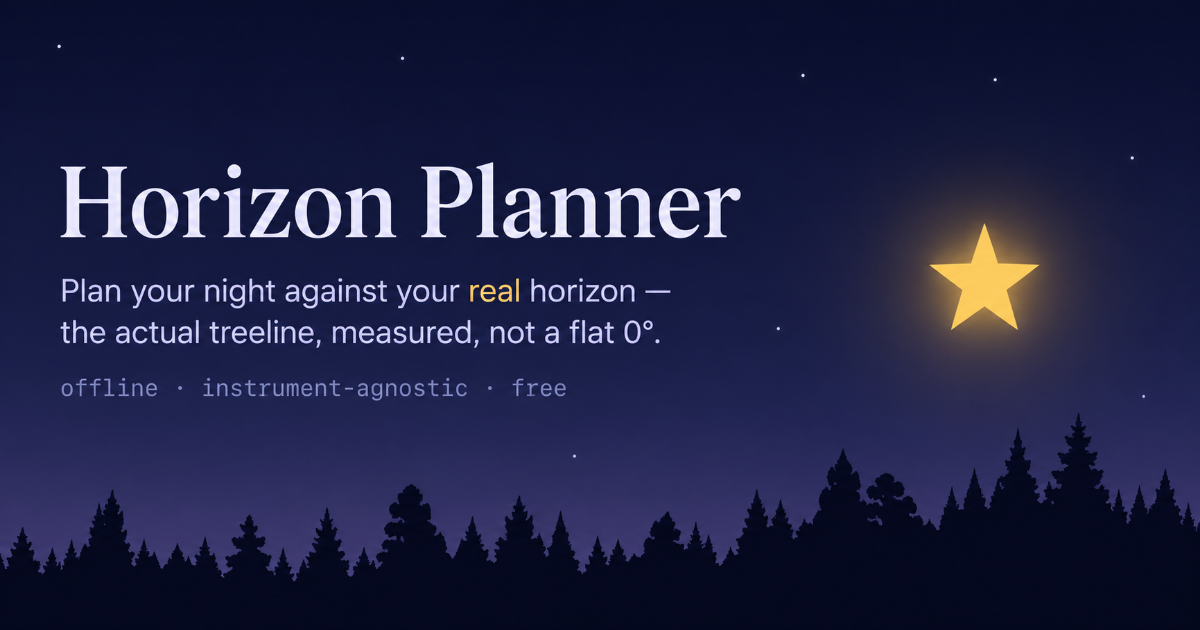
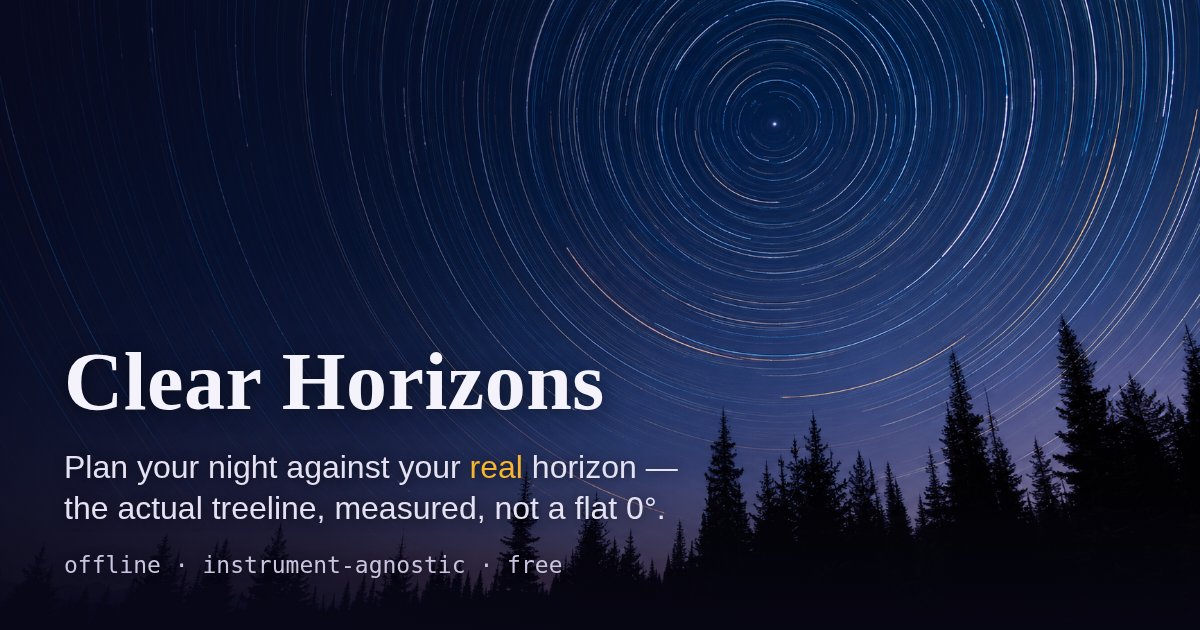
New branded og-image from a real star-trail photo (v2.16.2)
art/og-master.png is now a text-free long-exposure star-trail photograph
(concentric trails around Polaris, a conifer treeline cutting them); the
wordmark + tagline are composited over the clean lower-left in code by
gen-assets.mjs (IBM Plex, soft scrim) so future copy/photo swaps are a
one-file edit. Replaces the old wrong-wordmark card. og-image.png
regenerated. Manual Settings -> Social preview upload still pending.

Claude-Session: https://claude.ai/code/session_01Ck69LdRciR3T3mWcm44WVu

diff --git a/sw.js b/sw.js
@@ -1,7 +1,7 @@
 // Clear Horizons service worker — offline-first for the whole static app.
 // No network APIs are contacted in v1 (astronomy-engine is vendored and runs
 // on-device; Open-Meteo / hips2fits land on the roadmap). Bump CACHE on release.
-const CACHE = 'horizon-v49'; // app v2.16.1 — Tier 2 confirmed done; old origin frozen on the banner build (og-image wordmark still pending new art)
+const CACHE = 'horizon-v50'; // app v2.16.2 — new branded og-image from Noah's star-trail photo (wordmark overlaid in code via gen-assets)
 const ASSETS = [
   './', './index.html', './manifest.webmanifest', './icon.svg', './apple-touch-icon.png',
   './src/styles.css', './src/main.js',

diff --git a/NOTES.md b/NOTES.md
@@ -23,11 +23,14 @@ install promotion (v2.14), and the **Clear Horizons Tier 1 rename**
   instructions render + the nudge disappears standalone; editor drag feel
   after the touch hardening; real outdoor trace/sweep/seam quality; the iOS
   `webkitCompassHeading` true-vs-magnetic test (COMPASS section below).
-- **Brand art for the rename**: og-image.png still carries the OLD wordmark
-  — it's baked into `art/og-master.png`, so it needs new approved art, then
-  `node scripts/gen-assets.mjs`, then the manual Settings → Social preview
-  upload ritual (CLAUDE.md). Repo About metadata (description/topics) also
-  still says the old name until Tier 2 is decided.
+- **Brand art for the rename — DONE (v2.16.2)**: `art/og-master.png` is now
+  a text-free star-trail photograph (Noah generated it from the app's brand
+  prompt after the procedural-scene attempts didn't satisfy), and the wordmark
+  + tagline are overlaid IN CODE by `gen-assets.mjs` (so future copy/photo
+  changes are one edit, never a re-baked wordmark). og-image.png regenerated.
+  STILL PENDING NOAH'S HANDS: the manual **Settings → Social preview** upload
+  of the new og-image.png, and the repo About description/topics still carry
+  the old name (verify/refresh during Tier 2 metadata pass).
 - **Tier 2 rename — DONE and CONFIRMED** ("Tier 2 go" → v2.16.0; Noah
   confirmed all four manual steps 2026-07-19: repo renamed to
   `njefferson/clear-horizons`, About-gear Website set to
@@ -523,6 +526,18 @@ tools:**
   when no site/horizon exists.
 
 ## Releases
+- **v2.16.2 — 2026-07-19** (SW cache `horizon-v50`). **New branded og-image.**
+  The social card is now Noah's own star-trail photograph (real concentric
+  trails wheeling around Polaris, a conifer treeline cutting them at the
+  bottom) with the wordmark + tagline laid into the clean dark lower-left over
+  a soft scrim. Replaces the old wrong-wordmark card. `art/og-master.png` is
+  the text-free photo; `scripts/gen-assets.mjs` composites the type in code
+  (IBM Plex, matching the app) so future copy/photo swaps are a one-file edit.
+  Long backstory: many procedural attempts at a synthetic star-trail scene
+  (offset Polaris, rigid Big-Dipper template, diurnal circles) didn't land —
+  Noah generated the photo from the app's own brand prompt and it was the
+  one. Asset-only change; app code untouched. NEEDS-HIS-HANDS: the manual
+  Settings → Social preview upload.
 - **v2.16.1 — 2026-07-19** (SW cache `horizon-v49`). **Old origin frozen.**
   Noah confirmed every manual Tier 2 step (repo rename, About-gear website,
   both-URL browser check, his device migrated), so the transitional